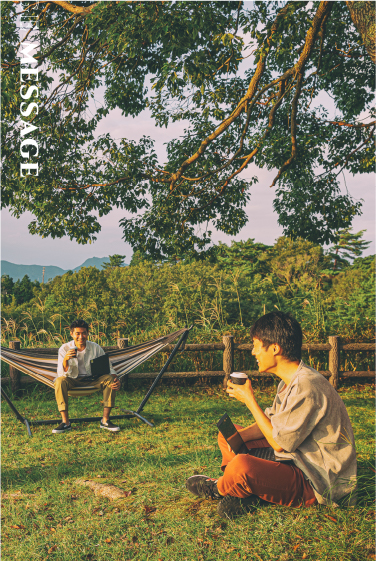
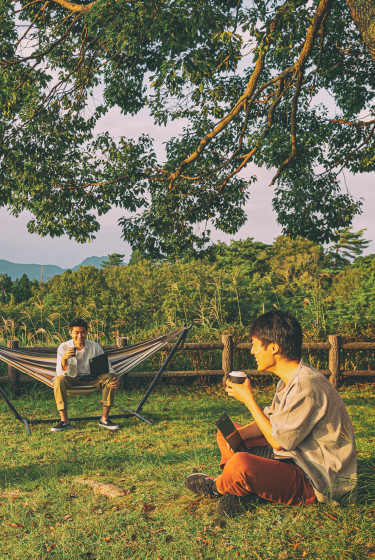
messageをhtmlに変更　動かなくなった

diff --git a/assets/js/uniq.js b/assets/js/uniq.js
@@ -1,9 +1,9 @@
-$(function(){
+$(function () {
 
   //カレント表示
-  $('.hum_links .link a').each(function(){
+  $('.hum_links .link a').each(function () {
     var target = $(this).attr('href');
-    if(location.href.match(target)) {
+    if (location.href.match(target)) {
       $(this).parent().addClass('current');
     } else {
       $(this).parent().removeClass('current');
@@ -11,78 +11,77 @@ $(function(){
   });
 
 
-    //freshman　アコーディオン
-    $(".answer").css("display", "none");
-    $(".txt-q").css("display", "none");
-    
-    $(".question").click(function () {
-      
-      $(".question").not(this).removeClass("open");
-      $(".question").not(this).next().slideUp(300);
-      $(this).toggleClass("open");
-      $(this).next().slideToggle(300);
-      //txt-q
-      $(this).children('.txt-q').slideToggle();
-    });
+  //freshman　アコーディオン
+  $(".answer").css("display", "none");
+  $(".txt-q").css("display", "none");
 
+  $(".question").click(function () {
 
-//ロゴが拡大する
- gsap.to("#scroll_logo",{
-  scrollTrigger: {
+    $(".question").not(this).removeClass("open");
+    $(".question").not(this).next().slideUp(300);
+    $(this).toggleClass("open");
+    $(this).next().slideToggle(300);
+    //txt-q
+    $(this).children('.txt-q').slideToggle();
+  });
+
+  //top mv
+  //ロゴが拡大する
+  gsap.to("#scroll_logo", {
+    scrollTrigger: {
       trigger: ".first_kv",
       start: "top top",
       end: '+=1500', //アニメーション開始位置から1500px固定する
       scrub: true, // スクロールに合わせて動く
       //markers: true,
       pin: true //トリガー要素を固定する
-  },
-  scale: 35,
+    },
+    scale: 35,
   });
 
   //コピー等が消える
-  gsap.fromTo('.kv_top', { 
+  gsap.fromTo('.kv_top', {
     autoAlpha: 1, //fromToで初期状態を設定
-    },
+  },
     {
-    autoAlpha: 0, 
+      autoAlpha: 0,
       scrollTrigger: {
         trigger: 'first_kv',
         start: "top top",
-      end: '+=100', //アニメーション開始位置から200pxの位置で終わる
-      scrub: true, // スクロールに合わせて動く
-      //markers: true,
+        end: '+=100', //アニメーション開始位置から200pxの位置で終わる
+        scrub: true, // スクロールに合わせて動く
+        //markers: true,
       }
     });
 
-    //画像を暗く
-  gsap.fromTo('.overlay', { 
+  //画像を暗く
+  gsap.fromTo('.overlay', {
     autoAlpha: 0, //初期状態
-    },
+  },
     {
-    autoAlpha: 1, 
+      autoAlpha: 1,
       scrollTrigger: {
         trigger: 'first_kv',
         start: "700 top",
-      end: '+=300', //アニメーション開始位置から200pxの位置で終わる
-      scrub: true, // スクロールに合わせて動く
-      //markers: true,
+        end: '+=300', //アニメーション開始位置から200pxの位置で終わる
+        scrub: true, // スクロールに合わせて動く
+        //markers: true,
       }
     });
 
-      //ボディーコピーを表示
-  gsap.fromTo('#kv_copy , .copy_sp', { 
+  //ボディーコピーを表示
+  gsap.fromTo('#kv_copy , .copy_sp', {
     autoAlpha: 0, //初期状態
-    },
+  },
     {
-    autoAlpha: 1,
+      autoAlpha: 1,
       scrollTrigger: {
         trigger: 'first_kv',
         start: "700 top",
-      end: '+=300', //アニメーション開始位置から300pxの位置で終わる
-      scrub: true, // スクロールに合わせて動く
-     // markers: true,
+        end: '+=300', //アニメーション開始位置から300pxの位置で終わる
+        scrub: true, // スクロールに合わせて動く
+        // markers: true,
       }
     });
-  
 
 });

diff --git a/assets/css/assets.css b/assets/css/assets.css
@@ -1581,6 +1581,9 @@ body {
     width: 100%;
   }
 }
+.sc-kv #kv-img .copy_sp.disp-sp {
+  left: 20%;
+}
 .sc-kv #kv-img #kv_copy {
   position: absolute;
   display: -webkit-box;
@@ -1664,6 +1667,35 @@ body {
   width: 100%;
   -o-object-fit: cover;
      object-fit: cover;
+}
+#slider-fade .swiper-slide .kv_en {
+  font-family: "Cinzel", "Lato", serif;
+  font-size: 50px;
+  -webkit-writing-mode: vertical-rl;
+      -ms-writing-mode: tb-rl;
+          writing-mode: vertical-rl;
+  position: absolute;
+  z-index: 8;
+  top: -150px;
+  left: 5%;
+  color: #fff;
+}
+@media (max-width: 767px) {
+  #slider-fade .swiper-slide .kv_en {
+    font-size: 25px;
+    top: 0;
+    left: 20px;
+  }
+}
+#slider-fade .swiper-slide .kv_en .stroke {
+  color: transparent;
+  -webkit-text-stroke: 1px #fff;
+}
+#slider-fade .swiper-slide:nth-child(2) .kv_en {
+  color: #000;
+}
+#slider-fade .swiper-slide:nth-child(2) .kv_en .stroke {
+  -webkit-text-stroke: 1px #000;
 }
 
 .kv-back {

diff --git a/assets/sass/layout/_kv.scss b/assets/sass/layout/_kv.scss
@@ -110,6 +110,9 @@ transform: rotate(90deg);
           width: 100%;
         }
       }
+      &.disp-sp{
+        left: 20%;
+      }
     }
     #kv_copy{
       position: absolute;
@@ -173,6 +176,33 @@ transform: rotate(90deg);
     height: 100%;
     width: 100%;
     object-fit: cover;
+  }
+  .kv_en{
+    font-family: $font-dec;
+    font-size: 50px;
+    writing-mode: vertical-rl;
+    position: absolute;
+    z-index: 8;
+    top: -150px;
+    left: 5%;
+    color: #fff;
+    @include breakpoint(small){
+      font-size: 25px;
+      top: 0;
+      left: 20px;
+    }
+    .stroke{
+      color: transparent;
+    -webkit-text-stroke: 1px #fff;
+    }
+  }
+  &:nth-child(2){
+    .kv_en{
+      color: #000;
+      .stroke{
+      -webkit-text-stroke: 1px #000;
+      }
+    }
   }
 }
 .kv-back{

diff --git a/index.php b/index.php
@@ -31,7 +31,7 @@ $pageInfo = array(
                 </div>
                 <div id="kv-img">
                     <div class="copy_sp disp-sp">
-                    <img src="/assets/img/top/copy_sp.svg" alt="創るのは、街だけじゃない。">
+                        <img src="/assets/img/top/copy_sp.svg" alt="創るのは、街だけじゃない。">
                     </div>
                     <p id="kv_copy">
                         <span>森トラストは、不動産の会社というイメージがあるかもしれません。</span>
@@ -49,18 +49,21 @@ $pageInfo = array(
                     <div class="swiper-container" id="slider-fade">
                         <div class="swiper-wrapper2">
                             <div class="swiper-slide">
+                                <p class="kv_en"><span class="stroke">MESSAGE</span>MESSAGE</p>
                                 <picture class="kv-back">
                                     <source media="(max-width:767px)" srcset="/assets/img/top/kv_slide01_sp.jpg">
                                     <img src="/assets/img/top/kv_slide01.jpg" alt="。">
                                 </picture>
                             </div>
                             <div class="swiper-slide">
+                                <p class="kv_en"><span class="stroke">MESSAGE</span>MESSAGE</p>
                                 <picture class="kv-back">
                                     <source media="(max-width:767px)" srcset="/assets/img/top/kv_slide02_sp.jpg">
                                     <img src="/assets/img/top/kv_slide02.jpg" alt="。">
                                 </picture>
                             </div>
                             <div class="swiper-slide">
+                                <p class="kv_en"><span class="stroke">MESSAGE</span>MESSAGE</p>
                                 <picture class="kv-back">
                                     <source media="(max-width:767px)" srcset="/assets/img/top/kv_slide03_sp.jpg">
                                     <img src="/assets/img/top/kv_slide03.jpg" alt="。">
@@ -476,11 +479,11 @@ $pageInfo = array(
     <link rel="stylesheet" href="https://unpkg.com/swiper/swiper-bundle.min.css" />
     <script src="https://unpkg.com/swiper/swiper-bundle.min.js"></script>
     <script src="/assets/js/swiper.min.js"></script>
-    <script src="/assets/js/init.js"></script>
     <!-- kv -->
     <script src="https://cdnjs.cloudflare.com/ajax/libs/gsap/3.4.2/gsap.min.js"></script>
     <script src="https://cdnjs.cloudflare.com/ajax/libs/gsap/3.4.2/ScrollTrigger.min.js"></script>
     <script src="/assets/js/gsap.min.js"></script>
+    <script src="/assets/js/init.js"></script>
 </body>
 
 </html>
